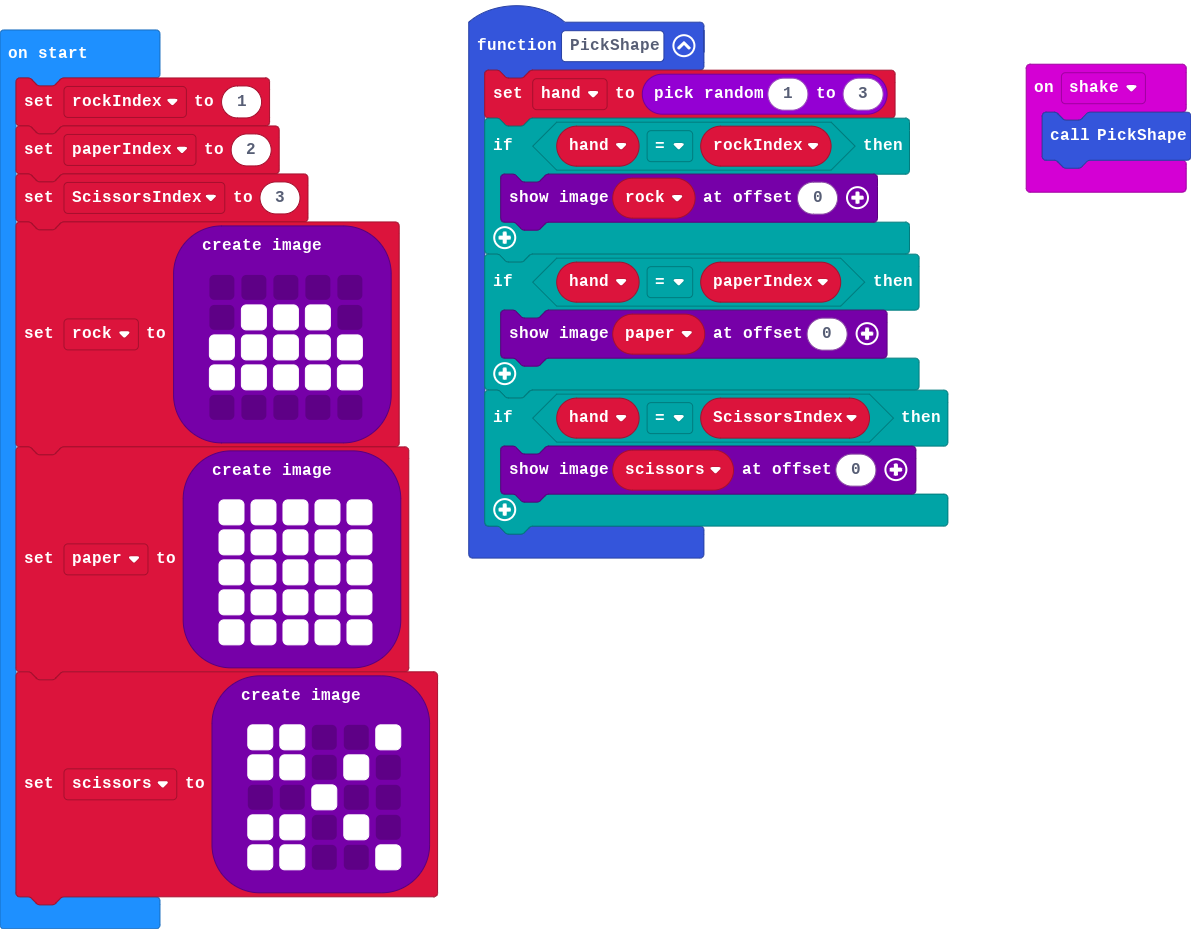
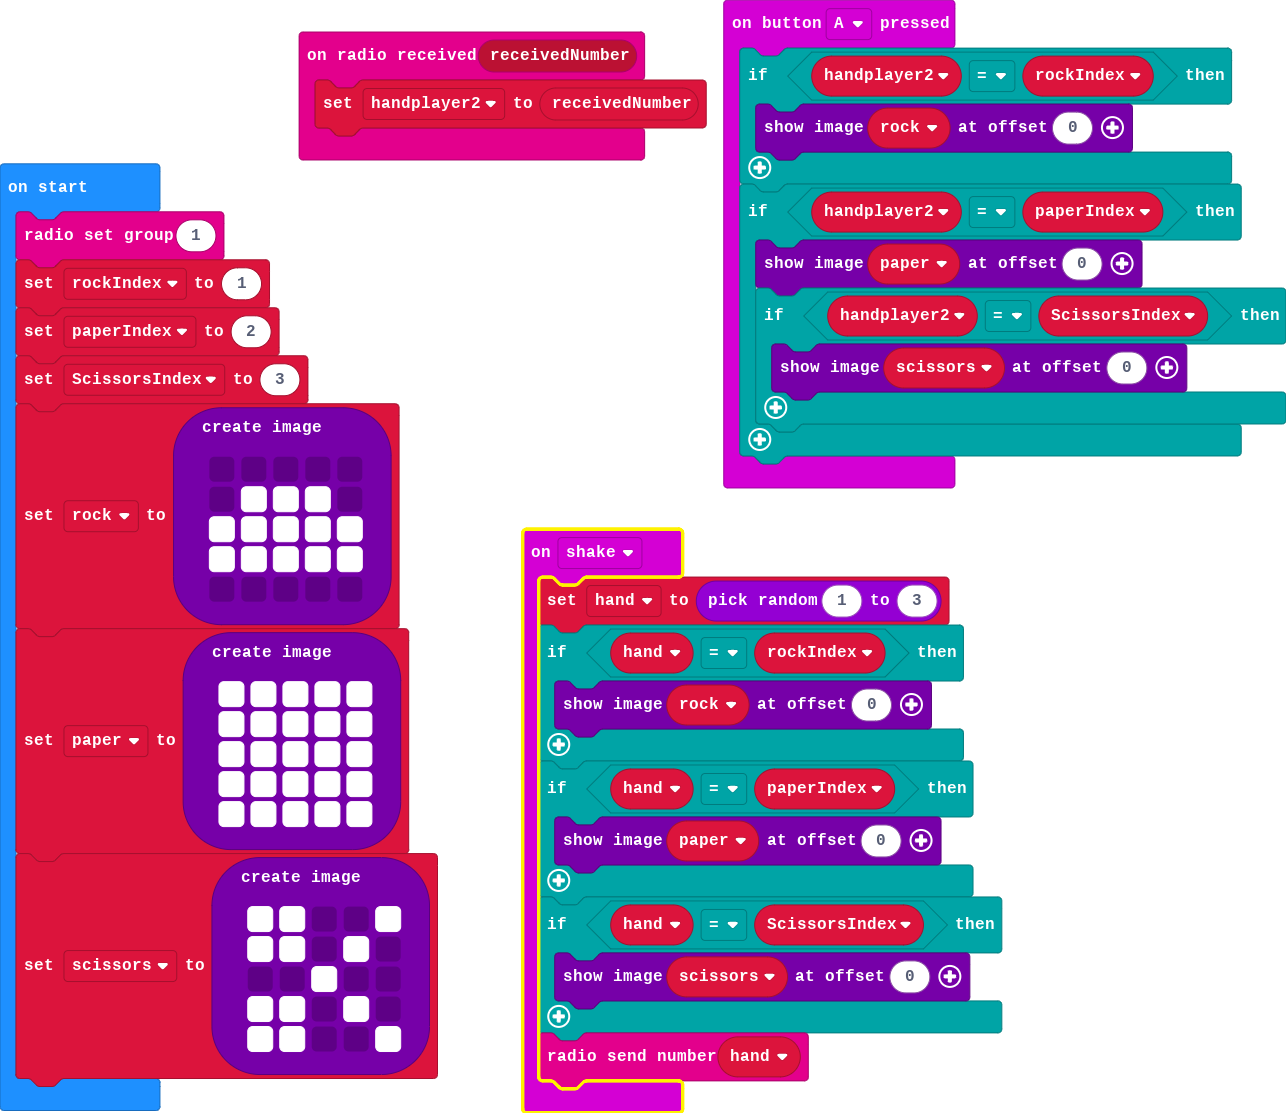
Update main.blocks, main.ts

diff --git a/main.ts b/main.ts
@@ -1,7 +1,18 @@
-input.onGesture(Gesture.Shake, function () {
-    PickShape()
+radio.onReceivedNumber(function (receivedNumber) {
+    handplayer2 = receivedNumber
 })
-function PickShape () {
+input.onButtonPressed(Button.A, function () {
+    if (handplayer2 == rockIndex) {
+        rock.showImage(0)
+    }
+    if (handplayer2 == paperIndex) {
+        paper.showImage(0)
+        if (handplayer2 == ScissorsIndex) {
+            scissors.showImage(0)
+        }
+    }
+})
+input.onGesture(Gesture.Shake, function () {
     hand = randint(1, 3)
     if (hand == rockIndex) {
         rock.showImage(0)
@@ -12,14 +23,17 @@ function PickShape () {
     if (hand == ScissorsIndex) {
         scissors.showImage(0)
     }
-}
+    radio.sendNumber(hand)
+})
 let hand = 0
+let handplayer2 = 0
 let scissors: Image = null
 let paper: Image = null
 let rock: Image = null
 let ScissorsIndex = 0
 let paperIndex = 0
 let rockIndex = 0
+radio.setGroup(1)
 rockIndex = 1
 paperIndex = 2
 ScissorsIndex = 3
